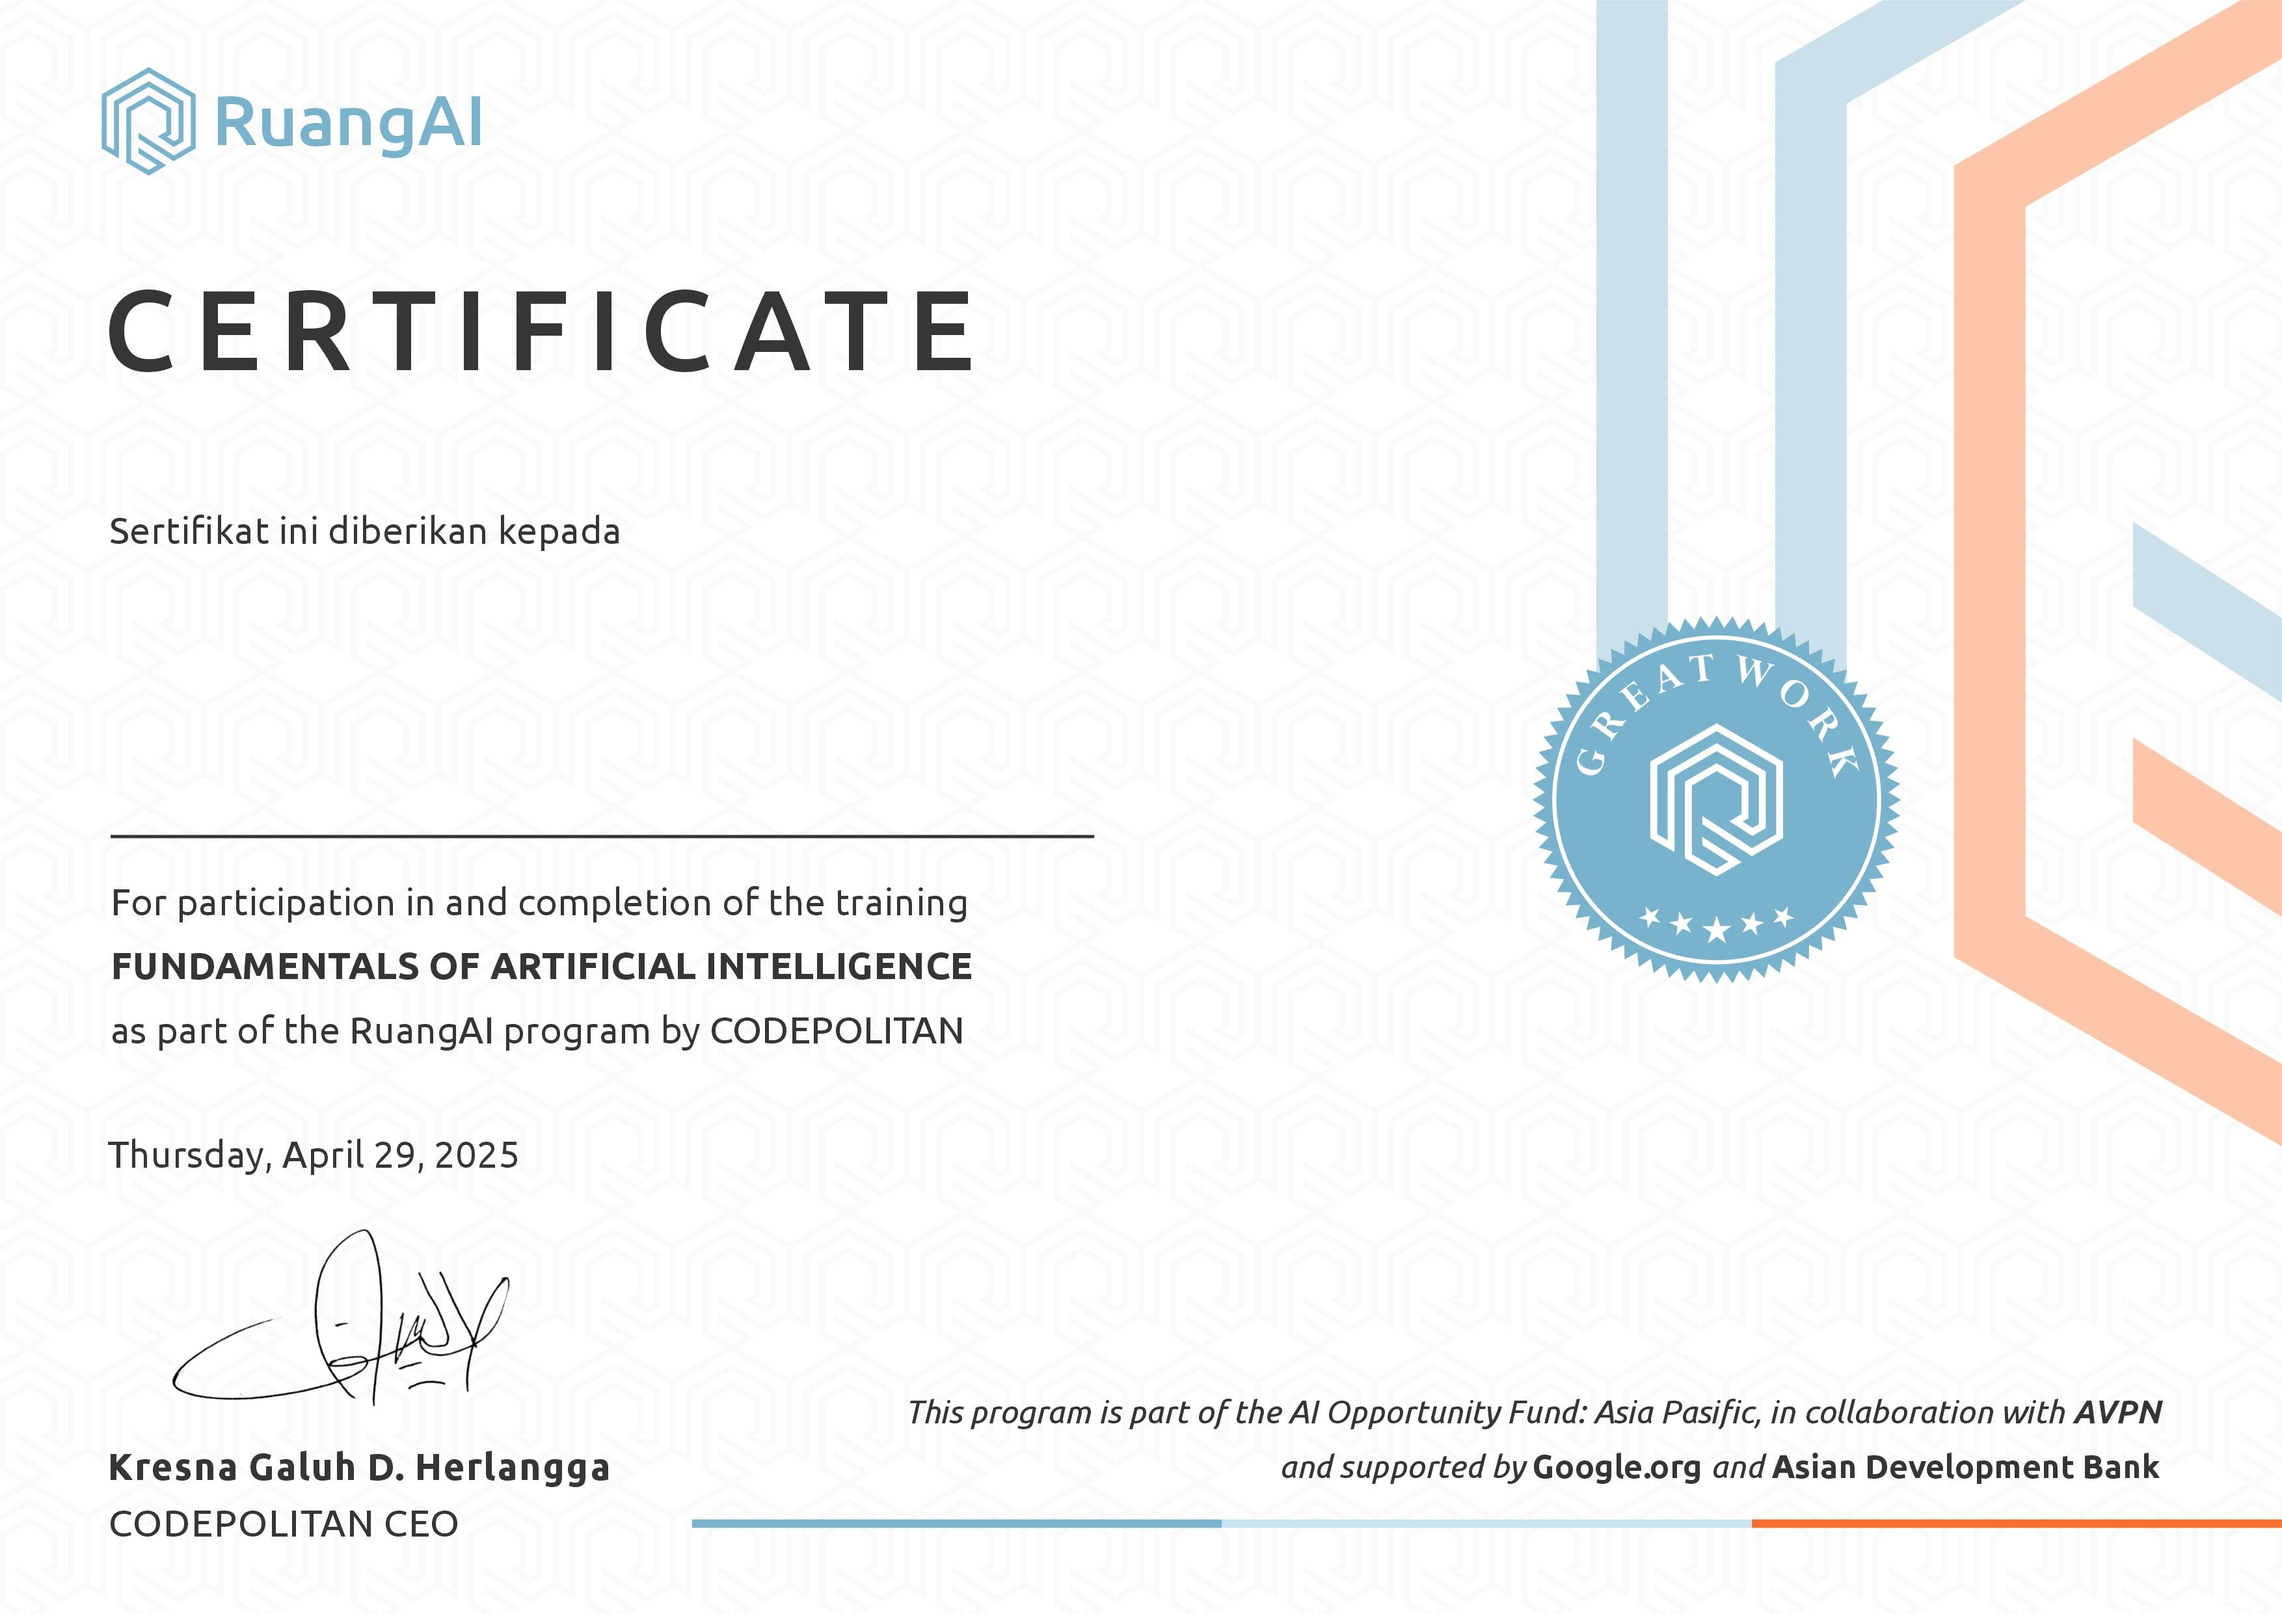
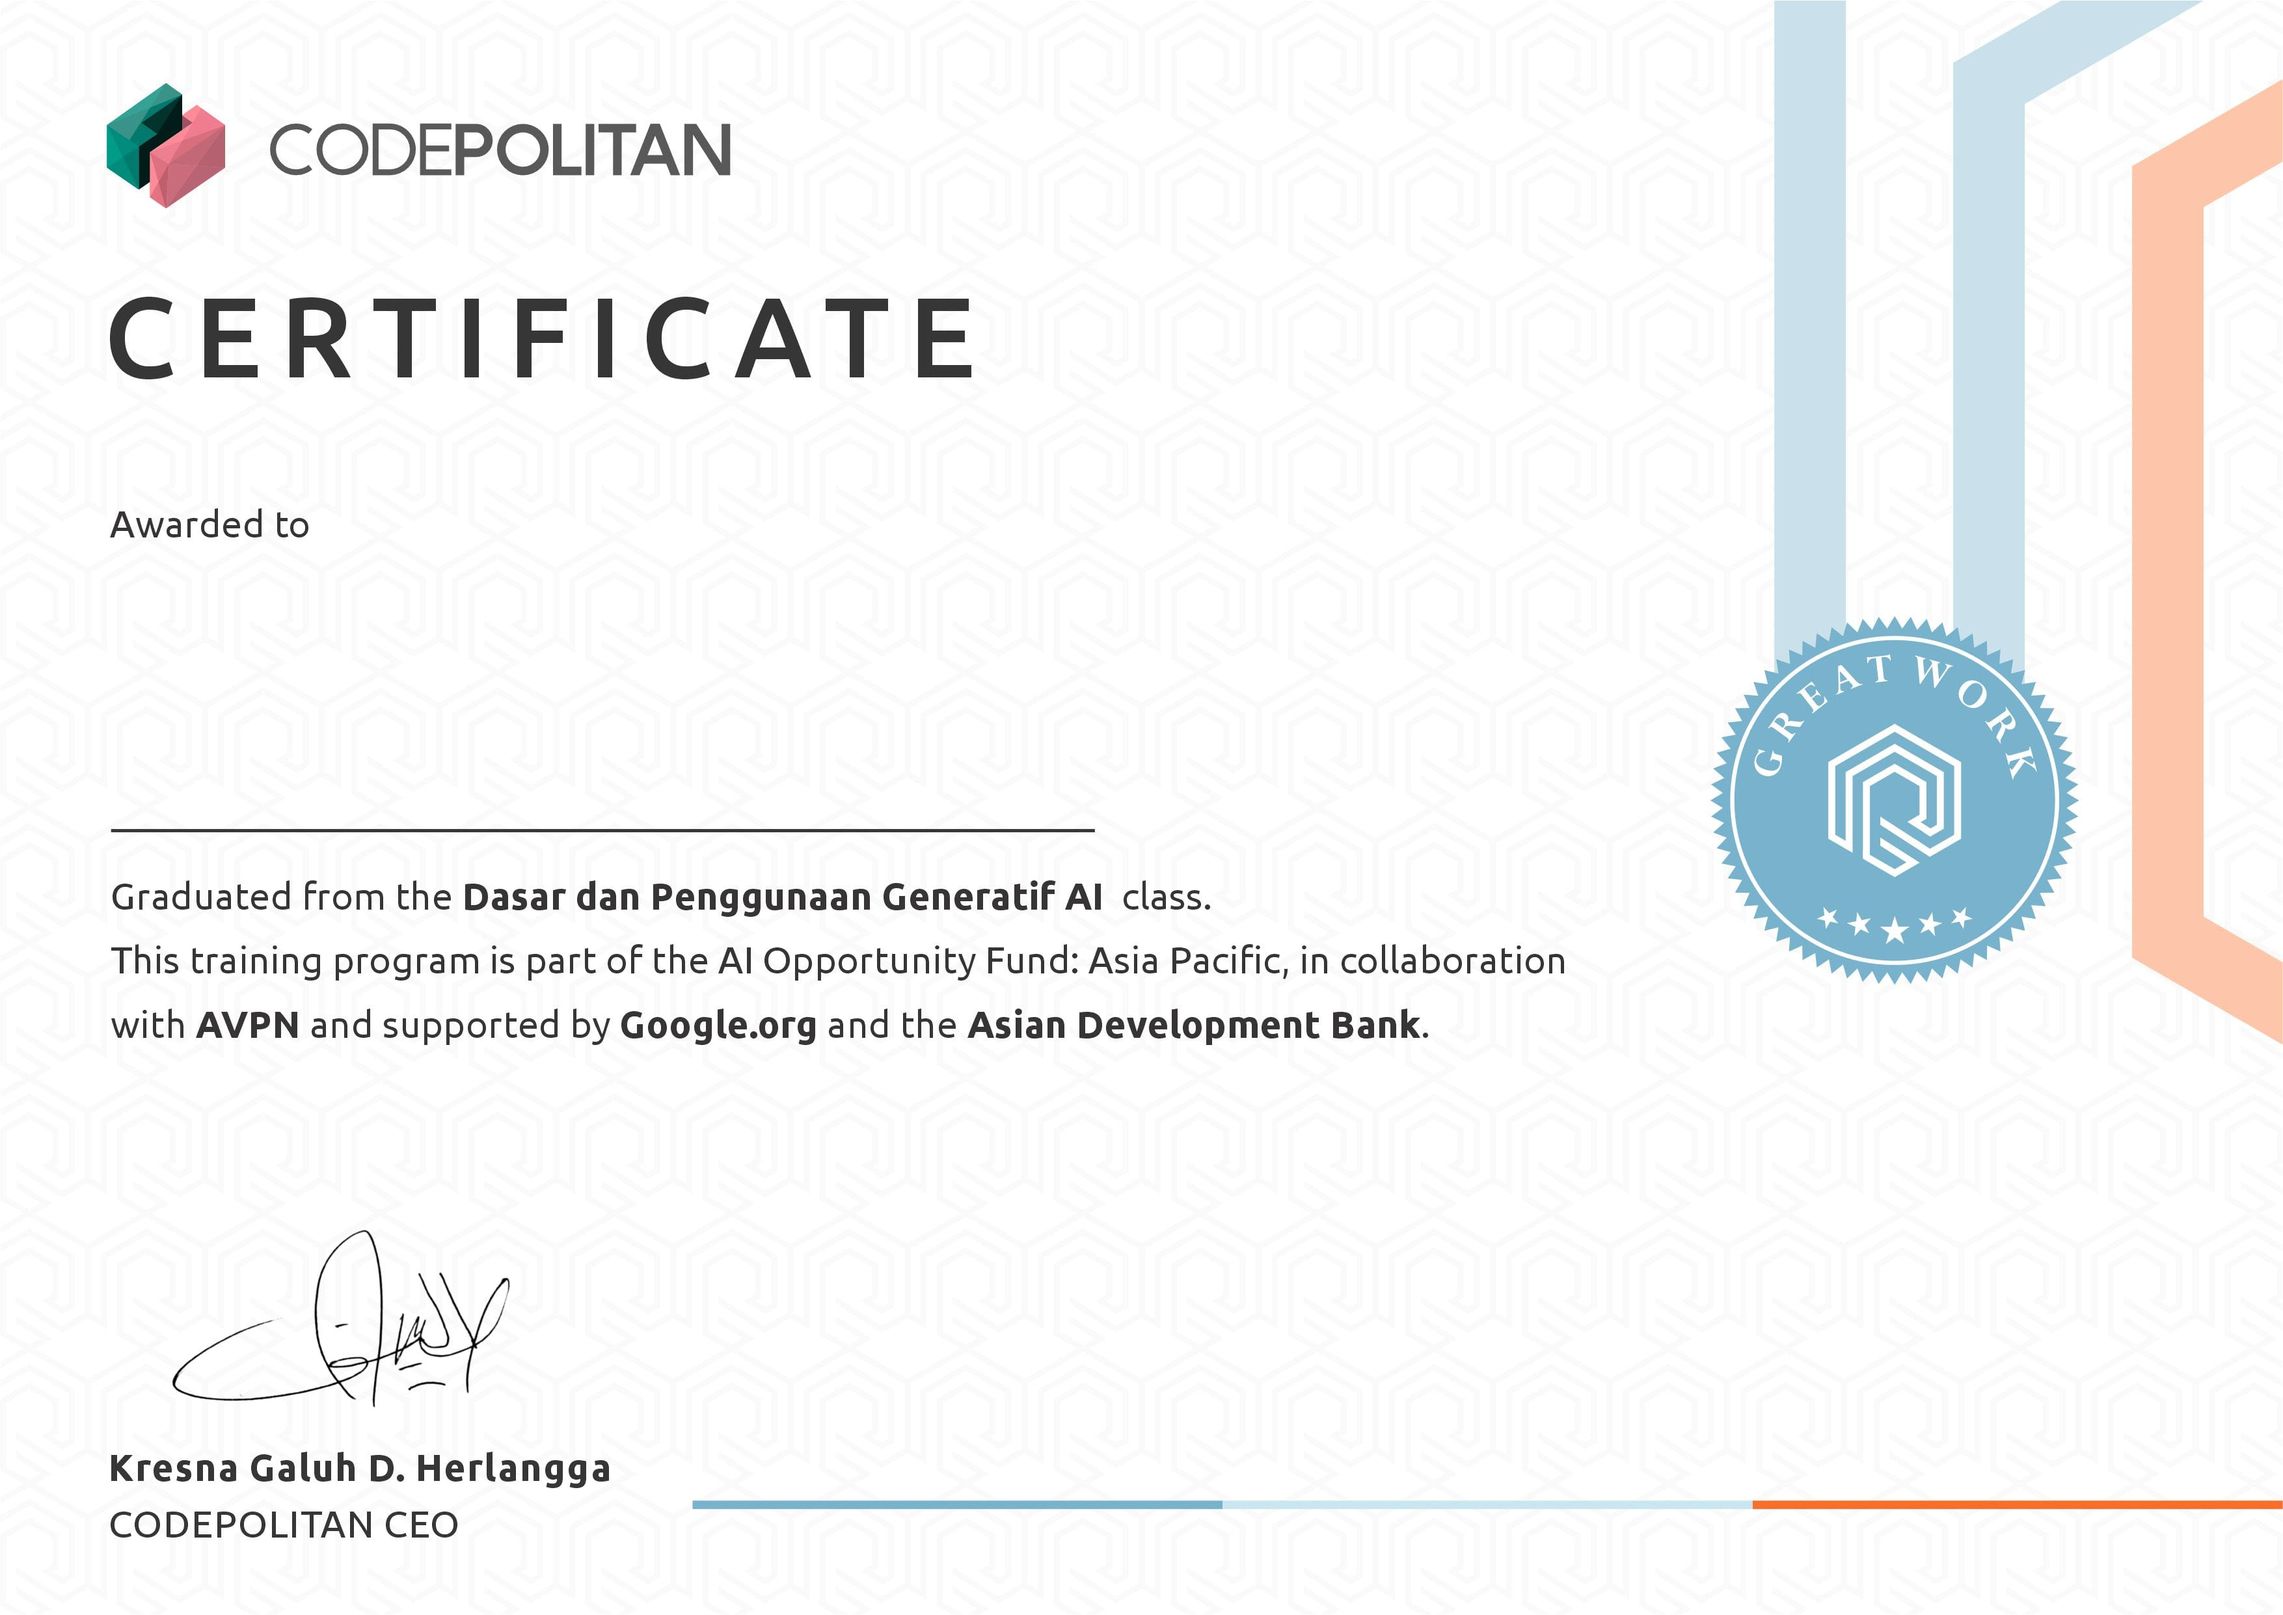
Update certificate with new template and generation approach

diff --git a/app/Pages/certificate/claim/CertConfig_1.php b/app/Pages/certificate/claim/CertConfig_1.php
@@ -1,0 +1,152 @@
+<?php
+
+namespace App\Pages\certificate\claim;
+
+// Certificate configuration for course id 1
+class CertConfig_1
+{
+    public array  $pages;
+    public string $code;
+    public mixed  $numberOrder;
+    public int    $pageWidth = 3508;
+    public int    $pageHeight = 2481;
+    public string $outputDir = 'certificates';
+
+    public function __construct($user_id, $course_id, $certNumberOrder = null)
+    {
+        // Get user data from database
+        $db = \Config\Database::connect();
+        $user = $db->table('users')
+            ->select('name')
+            ->where('id', $user_id)
+            ->get()
+            ->getRowArray();
+
+        // Required variables
+        $this->code  = strtoupper(substr(sha1($user_id . '-' . $course_id), -6)) . date('dH');
+        $this->numberOrder = $certNumberOrder;
+        if (!$certNumberOrder) {
+            $lastCertNumberOrder = model('CourseStudent')->getLastCertNumber($user_id);
+            $this->numberOrder = $lastCertNumberOrder + 1;
+        }
+        $certNumber = 'No: CP-RAI/' . date('Y') . '/' . date('m') . '/' . str_pad($this->numberOrder, 4, '0', STR_PAD_LEFT);
+
+        // 1ST page frontpage certificate in bahasa
+        $this->pages[1] = [
+            'templatePath' => FCPATH . 'certificates/tpl/id_1.tpl-min.jpg',
+            'outputPath'   => FCPATH . $this->outputDir . '/' . $this->code . 'id.jpg',
+            'outputURL'    => base_url($this->outputDir . '/' . $this->code . 'id.jpg'),
+            'texts'        => [
+                'name' => [
+                    'value'    => $user['name'],
+                    'x'        => 160,
+                    'y'        => 1180,
+                    'color'    => [121, 178, 205],
+                    'fontSize' => strlen($user['name']) <= 24 ? 130 : 105,
+                    'fontPath' => FCPATH . 'mobilekit/assets/fonts/Ubuntu/Ubuntu-Medium.ttf',
+                ],
+                'number' => [
+                    'value'    => $certNumber,
+                    'x'        => 170,
+                    'y'        => 670,
+                    'color'    => [121, 178, 205],
+                    'fontSize' => 48,
+                    'fontPath' => FCPATH . 'mobilekit/assets/fonts/Ubuntu/Ubuntu-Medium.ttf',
+                ],
+                'date_issued' => [
+                    'value'    => $this->getDate('now', 'id_ID', 'FULL'),
+                    'x'        => 170,
+                    'y'        => 1900,
+                    'color'    => [60, 60, 60],
+                    'fontSize' => 46,
+                    'fontPath' => FCPATH . 'mobilekit/assets/fonts/Ubuntu/Ubuntu-Regular.ttf',
+                ],
+                'date_expired' => [
+                    'value'    => 'Berlaku hingga: ' . $this->getDate('+3 years', 'id_ID', 'LONG'),
+                    'x'        => $this->pageWidth - 800,
+                    'y'        => 2400,
+                    'color'    => [60, 60, 60],
+                    'fontSize' => 42,
+                    'fontPath' => FCPATH . 'mobilekit/assets/fonts/Ubuntu/Ubuntu-Regular.ttf',
+                ],
+            ]
+        ];
+        $this->pages[1]['texts']['date_expired']['x'] = $this->rightAlignTextX($this->pages[1]['texts']['date_expired']['value'], $this->pages[1]['texts']['date_expired']['fontSize'], $this->pages[1]['texts']['date_expired']['fontPath'], $this->pageWidth, 50);
+
+        // 2ND page frontpage certificate in english
+        $this->pages[2]                 = $this->pages[1];
+        $this->pages[2]['templatePath'] = FCPATH . 'certificates/tpl/en_1.tpl-min.jpg';
+        $this->pages[2]['outputPath']   = FCPATH . $this->outputDir . '/' . $this->code . 'en.jpg';
+        $this->pages[2]['outputURL']    = base_url($this->outputDir . '/' . $this->code . 'en.jpg');
+        $this->pages[2]['texts']['date_issued']['value'] = $this->getDate('now', 'en_EN', 'FULL');
+        $this->pages[2]['texts']['date_expired']['value'] = 'Valid until: ' . $this->getDate('+3 years', 'en_EN', 'LONG');
+        $this->pages[2]['texts']['date_expired']['x'] = $this->rightAlignTextX($this->pages[2]['texts']['date_expired']['value'], $this->pages[2]['texts']['date_expired']['fontSize'], $this->pages[2]['texts']['date_expired']['fontPath'], $this->pageWidth, 50);
+
+        // 3RD page backpage certificate in bahasa
+        $this->pages[3] = [
+            'templatePath' => FCPATH . 'certificates/tpl/back_1.tpl-min.jpg',
+            'outputPath'   => FCPATH . $this->outputDir . '/' . $this->code . 'p2.jpg',
+            'outputURL'    => base_url($this->outputDir . '/' . $this->code . 'p2.jpg'),
+            'texts'        => [
+                'name' => [
+                    'value'    => $user['name'],
+                    'x'        => 160,
+                    'y'        => 700,
+                    'color'    => [50, 50, 50],
+                    'fontSize' => strlen($user['name']) <= 24 ? 120 : 95,
+                    'fontPath' => FCPATH . 'mobilekit/assets/fonts/Ubuntu/Ubuntu-Medium.ttf',
+                ],
+                'number' => [
+                    'value'    => $certNumber,
+                    'x'        => 160,
+                    'y'        => 800,
+                    'color'    => [50, 50, 50],
+                    'fontSize' => 52,
+                    'fontPath' => FCPATH . 'mobilekit/assets/fonts/Ubuntu/Ubuntu-Medium.ttf',
+                ],
+            ]
+        ];
+
+        // Set centered text position
+        $this->pages[3]['texts']['name']['x'] = $this->centerTextX($this->pages[3]['texts']['name']['value'], $this->pages[3]['texts']['name']['fontSize'], $this->pages[3]['texts']['name']['fontPath'], $this->pageWidth);
+        $this->pages[3]['texts']['number']['x'] = $this->centerTextX($this->pages[3]['texts']['number']['value'], $this->pages[3]['texts']['number']['fontSize'], $this->pages[3]['texts']['number']['fontPath'], $this->pageWidth);
+    }
+
+    public function centerTextX($text, $fontSize, $fontPath, $imageWidth, $angle = 0)
+    {
+        $bbox = imagettfbbox($fontSize, $angle, $fontPath, $text);
+        $textWidth = abs($bbox[2] - $bbox[0]);
+        return ($imageWidth - $textWidth) / 2;
+    }
+
+    public function rightAlignTextX($text, $fontSize, $fontPath, $imageWidth, $paddingRight = 0, $angle = 0)
+    {
+        $bbox = imagettfbbox($fontSize, $angle, $fontPath, $text);
+        $textWidth = abs($bbox[2] - $bbox[0]);
+        return $imageWidth - $textWidth - $paddingRight;
+    }
+
+
+    public function getOutputURLs()
+    {
+        return array_map(function ($page) {
+            return $page['outputURL'];
+        }, $this->pages);
+    }
+
+    public function getDate($when = 'now', $locale = 'id_ID', $format = 'FULL')
+    {
+        if ($when == 'now') {
+            $date = new \DateTime();
+        } else {
+            $date = new \DateTime();
+            $date->modify($when);
+        }
+
+        // Formatter tanggal lokal Indonesia
+        $formatter = new \IntlDateFormatter($locale, \IntlDateFormatter::{$format}, \IntlDateFormatter::NONE);
+
+        // Format hasil
+        return $formatter->format($date);
+    }
+}

diff --git a/app/Pages/certificate/claim/PageController.php b/app/Pages/certificate/claim/PageController.php
@@ -161,12 +161,11 @@ class PageController extends BaseController
         return $learningStatus['id'];
     }
 
-    public function getSimulate($user_id = 37, $course_id =1 )
+    public function getSimulate($user_id = 37, $course_id = 1)
     {
         $certResult = $this->generateCertificate($user_id, $course_id);
-
-        $lastCertNumber = model('CourseStudent')->getLastCertNumber($user_id);
-
+        $certURLs = $certResult->getOutputURLs();
+        
         // Update cert_claim_date on course_students by user_id and course_id
         $db = \Config\Database::connect();
         $db->table('course_students')
@@ -175,12 +174,14 @@ class PageController extends BaseController
             ->update([
                 'graduate'        => 1, 
                 'cert_claim_date' => date('Y-m-d H:i:s'), 
-                'cert_code'       => $certResult['code'],
-                'cert_number'     => $certResult['number'],
-                'cert_url'        => json_encode($certResult['url']),
+                'cert_code'       => $certResult->code,
+                'cert_number'     => $certResult->numberOrder,
+                'cert_url'        => json_encode($certURLs),
             ]);
 
-        echo "<img src=" . $certResult['url']['id']['front'] . " width='3000'>";
+            echo "<img src=" . $certURLs[1] . " width='3000'>";
+            echo "<img src=" . $certURLs[2] . " width='3000'>";
+            echo "<img src=" . $certURLs[3] . " width='3000'>";
     }
 
     public function getRegenerate($code = null)
@@ -274,29 +275,30 @@ class PageController extends BaseController
         return $data;
     }
 
-    private function generateCertificate($user_id, $course_id, $number = null)
+    private function generateCertificate($user_id, $course_id, $certNumberOrder = null)
     {
-        // Buat folder storage jika belum ada
-        $outputDir = 'certificates';
-        if (!file_exists($outputDir)) {
-            mkdir($outputDir, 0775, true);
-        }
+        // Ambil konfigurasi sertifikat
+        $CertConfigClassname = "\App\Pages\certificate\claim\CertConfig_" . $course_id;
+        $CertConfig = new $CertConfigClassname($user_id, $course_id, $certNumberOrder);
 
-        // Get certificate data
-        $certData = $this->prepareCertData($user_id, $course_id, $outputDir, $number);
+        // Buat folder storage jika belum ada
+        if (!file_exists($CertConfig->outputDir)) {
+            mkdir($CertConfig->outputDir, 0775, true);
+        }
         
-        foreach($certData['template'] as $lang => $template) {
-            $certTemplate = $template['front'];
-            $outputFilename = $certData['filename'][$lang]['front'];
+        // Generate each certificate
+        foreach($CertConfig->pages as $pagenumber => $page) {
+            $certTemplate = $page['templatePath'];
+            $outputFilename = $page['outputPath'];
 
             // Load template gambar
             if (!file_exists($certTemplate)) {
-                throw new \Exception('Certificate template not found: '. $template['front']);
+                throw new \Exception('Certificate template not found: '. $certTemplate);
             }
 
             // Generate certificate image and all texts
             $image = imagecreatefromjpeg($certTemplate);
-            foreach($certData['texts'] as $text) {
+            foreach($page['texts'] as $text) {
                 $value     = $text['value'];
                 $fontSize  = $text['fontSize'];
                 $angle     = 0;
@@ -317,20 +319,7 @@ class PageController extends BaseController
             unset($optimizerChain);
         }
 
-        return $certData;
+        return $CertConfig;
     }
-
-    private function splitNameIfLong($name, $maxLength = 25)
-    {
-        if (strlen($name) <= $maxLength) {
-            return [$name]; // cukup satu baris
-        }
-
-        // Pisahkan berdasarkan spasi
-        $words = explode(' ', $name, 3);
-        $line1 = $words[0] . ' ' . $words[1];
-        $line2 = $words[2];
-
-        return [$line1, $line2];
-    }
+    
 }
